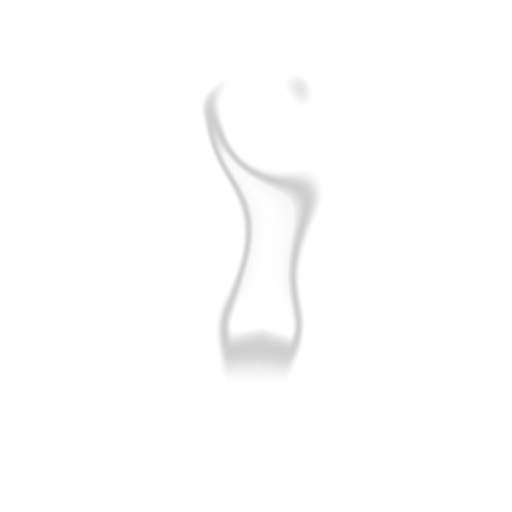
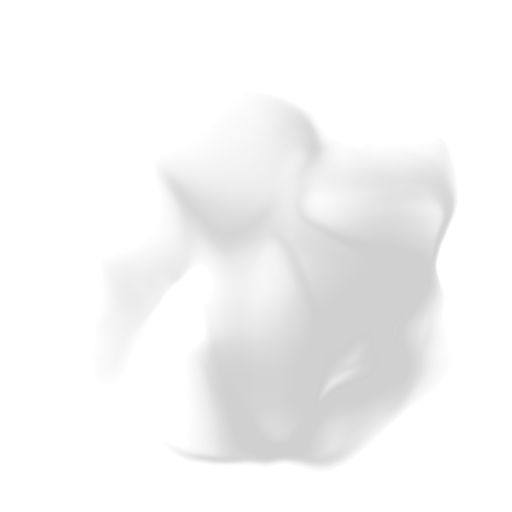
Add bloom sprite

Changed region(s): [[0.3125, 0.1875, 0.9062, 0.9062], [0.5625, 0.2188, 0.6562, 0.3438], [0.4375, 0.5312, 0.4688, 0.6562]]

diff --git a/raycaster.c b/raycaster.c
@@ -30,7 +30,7 @@ int renderW, renderH, halfRenderH;
 #define COL_STEP 1
 #define FXAA 0
 #define RAY_MARCHING_STEP_SIZE 0.001f // Taille du pas (plus c'est petit, plus c'est précis, mais plus c'est lent)
-#define TEX_TILE 0.7f
+#define TEX_TILE 0.9f
 #define DDA_OR_RAYMARCHING 1 // 0 --> RayMarching; 1 --> DDA
 
 // ----- Carte du labyrinthe -----
@@ -41,9 +41,14 @@ int renderW, renderH, halfRenderH;
 #define PATROL_LIGHT_SPEED 0.2f
 #define NUM_LIGHTS  3
 #define PATROL_LIGHTS  (NUM_LIGHTS - 1)
-#define AMBIENT_LIGHT 0.091f
+#define AMBIENT_LIGHT 0.085f
 #define TORCHE_RADIUS 2.8f
 #define TORCHE_PUISSANCE 3.0f
+
+// Paramètres bloom des sprites light patrols
+#define BLOOM_PASSES  7      // nombre de passes (1 = pas de bloom)
+#define BLOOM_SPREAD  2      // écartement en pixels
+#define BLOOM_ALPHA   0.3f   // intensité du halo
 
 static int MAP[MAP_H][MAP_W];
 // 0.0 = pas de trace, 1.0 = trace toute fraîche
@@ -56,6 +61,7 @@ bool torcheOn = true;
 bool traceOn = false;
 float pitch = 0.0f;
 bool playSoundOneTime = true;
+bool noBeepSound = false;
 
 typedef enum { STATE_PLAY, STATE_WIN, STATE_LOST, STATE_MAZE_NOT_READY } GameState;
 GameState gameState = STATE_PLAY;
@@ -99,7 +105,7 @@ typedef struct {
 
 Light lights[] = {
     { 3.5f, 3.5f, 1.0f, 1.0f, 0.2f, 1.5f },   // lumière patrol chaude
-    { 10.f, 5.0f, 1.0f, 1.0f, 1.0f, 1.5f },   // lumière patrol froide
+    { 10.f, 5.0f, 0.3f, 0.3f, 1.0f, 1.5f },   // lumière patrol froide
     { 0 }
 };
 int numLights = NUM_LIGHTS;
@@ -827,7 +833,7 @@ Sound CreateBeep(void) {
 
 void BeepDependsOnExitDistance(Sound beep, int px, int py)
 {
-    if (gameState != STATE_PLAY)
+    if (gameState != STATE_PLAY || noBeepSound)
         return;
 
     // 1. Trouver les coordonnées de la sortie (à faire une fois au GenerateMap)
@@ -975,6 +981,9 @@ void KeysAndJoypadHandler(float* angle, float* px, float* py, float dt)
 
     if (IsKeyPressed(KEY_B))
         afficherMap = !afficherMap;
+
+    if (IsKeyPressed(KEY_P))
+        noBeepSound = !noBeepSound;
 
     // --- Contrôle de la Torche ---
     // On utilise le bouton Y (ou triangle) par exemple
@@ -1349,32 +1358,65 @@ void RenderSprites(Context ctx, float px, float py, float angle)
             ? (Color){255, 200,  50, 255}
             : (Color){ 50, 150, 255, 255};
 
-        for (int col = drawStartX; col < drawEndX; col++)
+        for (int pass = 0; pass <= BLOOM_PASSES; pass++)
         {
-            if (col < 0 || col >= renderW) continue;
+            // Pass 0 = sprite normal, passes suivantes = halo décalé
+            int offsets[8][2] = {
+                {0,0},
+                {-BLOOM_SPREAD, 0}, {BLOOM_SPREAD, 0},
+                {0, -BLOOM_SPREAD}, {0,  BLOOM_SPREAD},
+                {-BLOOM_SPREAD,-BLOOM_SPREAD}, {BLOOM_SPREAD,-BLOOM_SPREAD},
+                {-BLOOM_SPREAD, BLOOM_SPREAD}
+            };
+            int ox = (pass == 0) ? 0 : offsets[pass][0];
+            int oy = (pass == 0) ? 0 : offsets[pass][1];
+            float passAlpha = (pass == 0) ? 1.0f : BLOOM_ALPHA;
 
-            int texX = (int)((float)(col - drawStartX) / (float)(drawEndX - drawStartX) * ctx.spriteW);
-            if (texX < 0) texX = 0;
-            if (texX >= ctx.spriteW) texX = ctx.spriteW - 1;
-
-            if (spriteDist >= ctx.zBuffer[col]) continue;
-
-            for (int row = drawStartY; row < drawEndY; row++)
+            for (int col = drawStartX; col < drawEndX; col++)
             {
-                int texY = (int)((float)(row - drawStartY) / (float)(drawEndY - drawStartY) * ctx.spriteH);
-                if (texY < 0) texY = 0;
-                if (texY >= ctx.spriteH) texY = ctx.spriteH - 1;
+                if (col < 0 || col >= renderW) continue;
 
-                Color c = ctx.spritePixels[texY * ctx.spriteW + texX];
-                if (c.a < 128) continue;
+                int texX = (int)((float)(col - drawStartX) / (float)(drawEndX - drawStartX) * ctx.spriteW);
+                if (texX < 0) texX = 0;
+                if (texX >= ctx.spriteW) texX = ctx.spriteW - 1;
 
-                float fog = 1.0f - fminf(spriteDist / 12.0f, 1.0f);
-                ctx.framebuffer[row * renderW + col] = (Color){
-                    (unsigned char)(c.r * tint.r / 255.0f * fog),
-                    (unsigned char)(c.g * tint.g / 255.0f * fog),
-                    (unsigned char)(c.b * tint.b / 255.0f * fog),
-                    255
-                };
+                if (spriteDist >= ctx.zBuffer[col]) continue;
+
+                for (int row = drawStartY; row < drawEndY; row++)
+                {
+                    int texY = (int)((float)(row - drawStartY) / (float)(drawEndY - drawStartY) * ctx.spriteH);
+                    if (texY < 0) texY = 0;
+                    if (texY >= ctx.spriteH) texY = ctx.spriteH - 1;
+
+                    Color c = ctx.spritePixels[texY * ctx.spriteW + texX];
+                    if (c.a < 128) continue;
+
+                    float fog = 1.0f - fminf(spriteDist / 12.0f, 1.0f);
+
+                    int destCol = col + ox;
+                    int destRow = row + oy;
+                    if (destCol < 0 || destCol >= renderW) continue;
+                    if (destRow < 0 || destRow >= renderH) continue;
+
+                    // Pour le halo : additionner sur le framebuffer existant
+                    if (pass == 0) {
+                        ctx.framebuffer[destRow * renderW + destCol] = (Color){
+                            (unsigned char)(c.r * tint.r / 255.0f * fog),
+                            (unsigned char)(c.g * tint.g / 255.0f * fog),
+                            (unsigned char)(c.b * tint.b / 255.0f * fog),
+                            255
+                        };
+                    } else {
+                        // Additive blending sur le framebuffer
+                        Color dst = ctx.framebuffer[destRow * renderW + destCol];
+                        ctx.framebuffer[destRow * renderW + destCol] = (Color){
+                            (unsigned char)fminf(255, dst.r + c.r * tint.r / 255.0f * fog * passAlpha),
+                            (unsigned char)fminf(255, dst.g + c.g * tint.g / 255.0f * fog * passAlpha),
+                            (unsigned char)fminf(255, dst.b + c.b * tint.b / 255.0f * fog * passAlpha),
+                            255
+                        };
+                    }
+                }
             }
         }
     }